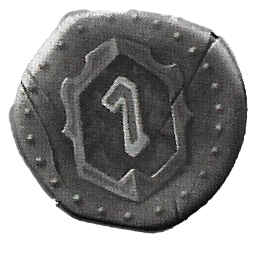
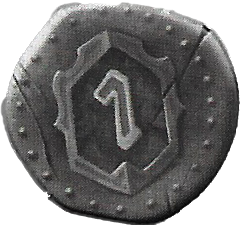
Design work in ScenarioVC to better align stat symbols and give counter symbols a black shadow.

diff --git a/GHPlayerSheet/Views/CounterView.swift b/GHPlayerSheet/Views/CounterView.swift
@@ -95,18 +95,18 @@ class CounterView: UIView {
             backgroundView.backgroundColor = ColorConstants.lootBackgroundColor
             counterLabel.textColor = ColorConstants.lootCounterColor
             counterSymbolImageView.image = UIImage(named: "lootSymbol")
-            counterSymbolBackgroundImageView.image = UIImage(named: "whiteLootSymbol")
+            counterSymbolBackgroundImageView.image = UIImage(named: "lootSymbolShadow")
         case .health:
             backgroundView.backgroundColor = ColorConstants.healthBackgroundColor
             counterLabel.textColor = ColorConstants.maxHealthLabelColor
             counterSymbolImageView.image = UIImage(named: "healthSymbol")
-            counterSymbolBackgroundImageView.image = UIImage(named: "whiteHealthSymbol")
+            counterSymbolBackgroundImageView.image = UIImage(named: "healthSymbolShadow")
             maxHealthLabel.isHidden = true
         case .experience:
             backgroundView.backgroundColor = ColorConstants.experienceBackgroundColor
             counterLabel.textColor = ColorConstants.experienceCounterColor
-            counterSymbolImageView.image = UIImage(named: "experienceStar")
-            counterSymbolBackgroundImageView.image = UIImage(named: "whiteExperienceStar")
+            counterSymbolImageView.image = UIImage(named: "experienceSymbol")
+            counterSymbolBackgroundImageView.image = UIImage(named: "experienceSymbolShadow")
         case .generic:
             backgroundView.backgroundColor = ColorConstants.genericBackgroundColor
             counterLabel.textColor = ColorConstants.genericCounterColor
